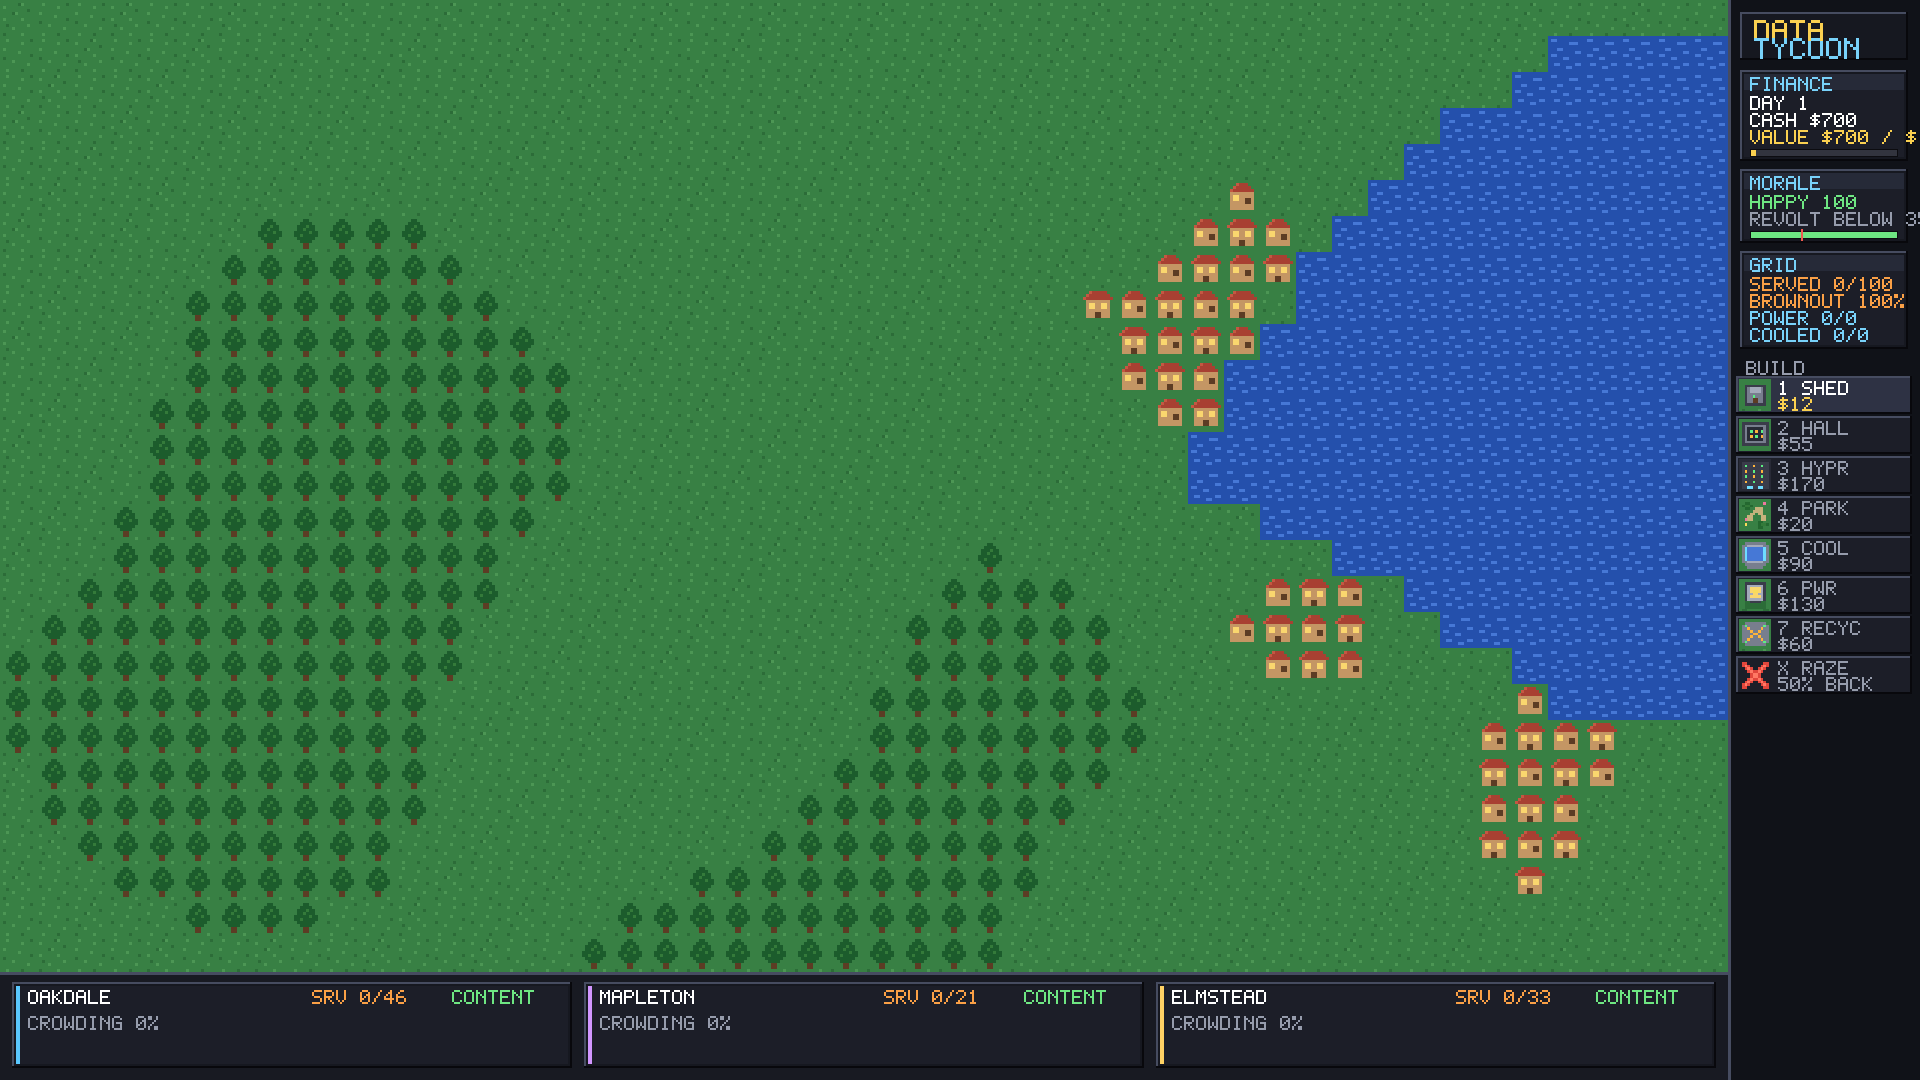
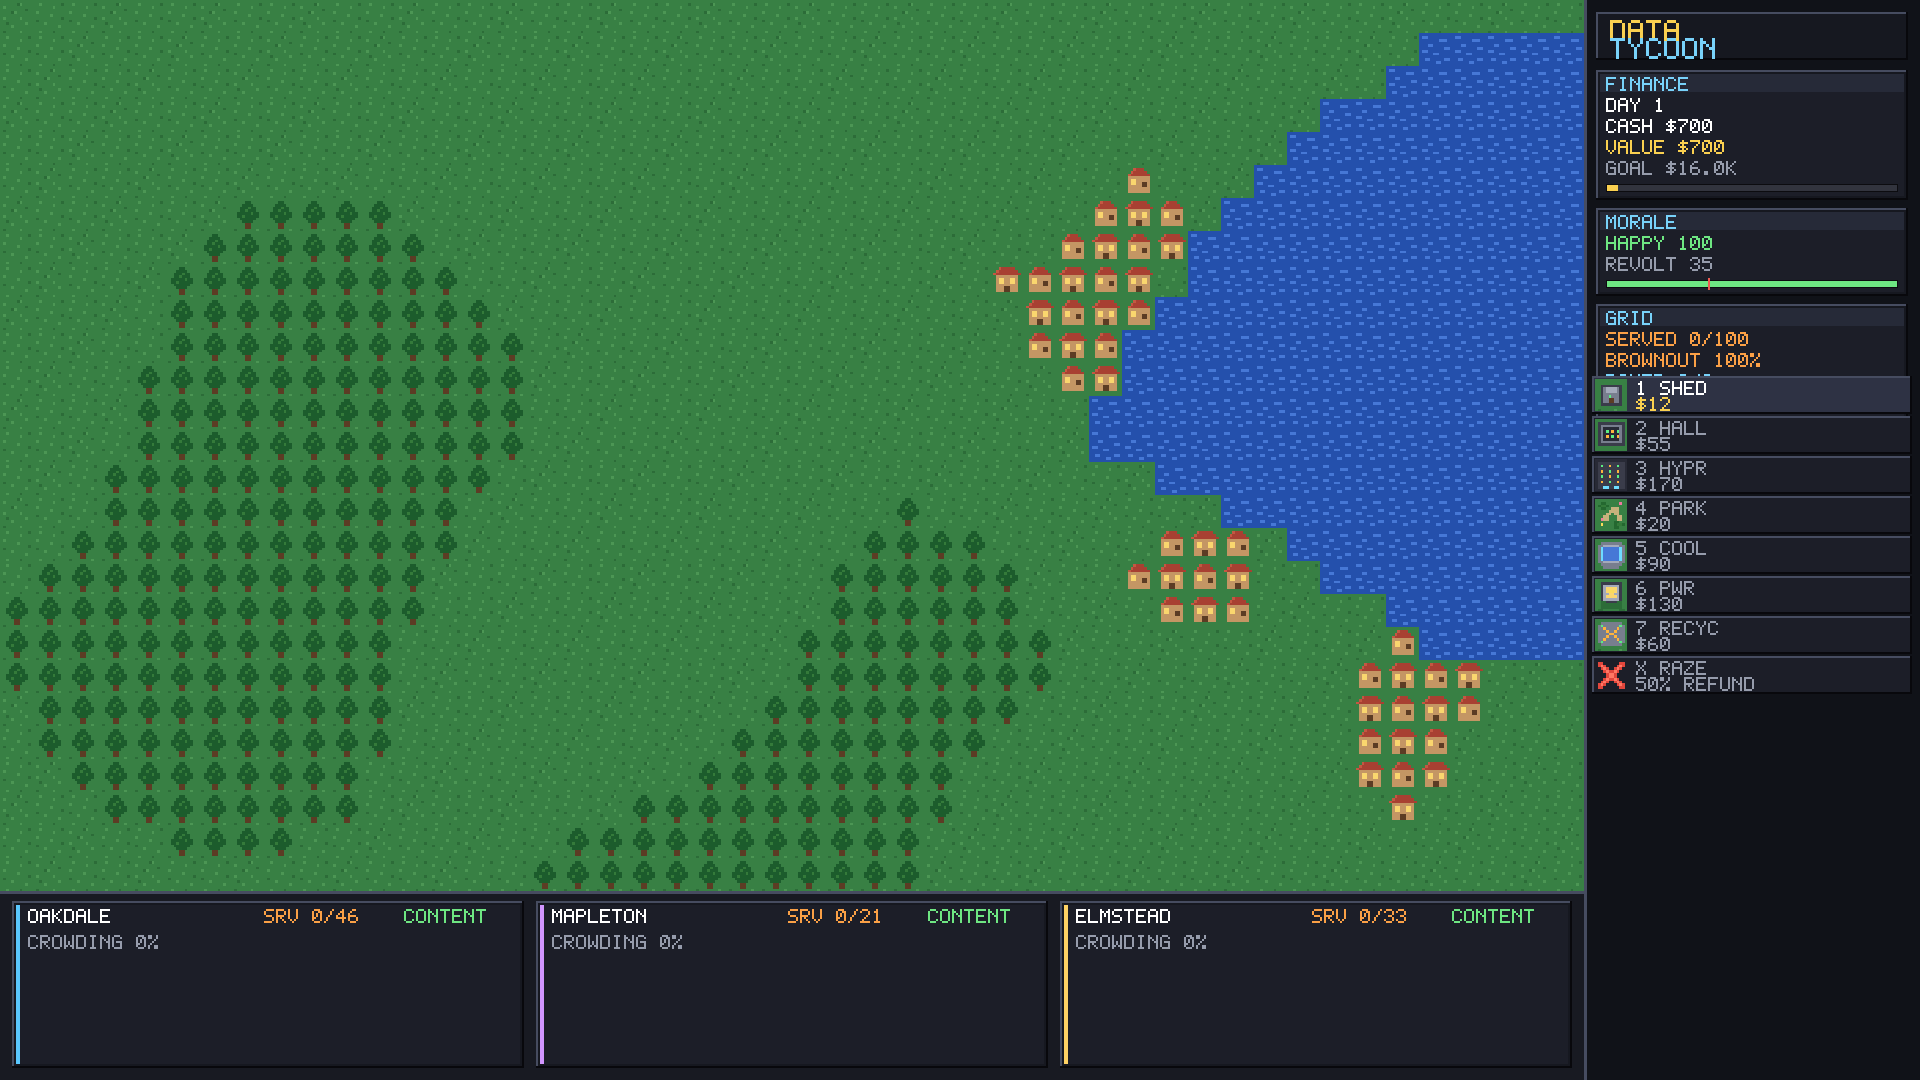
Improve small-font legibility in the HUD
- Widen the sidebar from 192px to 336px (render tiles at 33px; the 48x27
  grid is unchanged) so chunk text has real breathing room.
- Unambiguous glyphs: 0/1 now clearly differ (slashed zero, flag on 1).
- Chunk rows get 21px line height instead of 17px; chunk headers taller.
- Raze row key changed from 'X' to '8' so it sits in the 1-8 sequence
  instead of colliding with the red-X sprite; label now '50% REFUND'.
- Tool labels shifted to r.X+44 for clearance from the sprite.

Verified via the screenshot tool: sidebar text reads cleanly and the
build list is unambiguous. (Vision OCR still misreads the 5px font
occasionally, but a bit-level read confirms the glyphs render exactly.)

Validated: vanilla ladder byte-identical, 16/16 selftests, 0 warnings.

Changed region(s): [[0.0, 0.0, 1.0, 0.9778]]

diff --git a/Game1.cs b/Game1.cs
@@ -12,7 +12,7 @@ public class Game1 : Game
 {
     private const int TargetWidth = 1920;
     private const int TargetHeight = 1080;
-    private const int Ts = MapGenerator.TileSize;
+    private const int Ts = 33;
     private const int MapW = MapGenerator.GridWidth * Ts;
     private const int MapH = MapGenerator.GridHeight * Ts;
     private const int SideX = MapW;
@@ -55,7 +55,7 @@ public class Game1 : Game
         (Tool.Cooling, StructureType.CoolingTower, Sprite.Cooling, "5"),
         (Tool.Power, StructureType.PowerPlant, Sprite.Power, "6"),
         (Tool.Recycler, StructureType.Recycler, Sprite.Recycler, "7"),
-        (Tool.Raze, StructureType.None, Sprite.Raze, "X"),
+        (Tool.Raze, StructureType.None, Sprite.Raze, "8"),
     };
 
     private readonly record struct UndoStep(int x0, int y0, int x1, int y1, StructureType type, bool wasBuild);
@@ -676,8 +676,8 @@ public class Game1 : Game
             SoftBevel(c, r, selected ? new Color(46, 50, 68) : ChunkFill);
             c.BlitPattern(PixelArt.PatternFor(icon), pal, new Rectangle(r.X + 3, r.Y + 3, 32, 32), Color.White);
             string nm = Structures.Display(type);
-            SoftText(c, $"{key} {nm}", r.X + 42, r.Y + 5, selected ? Color.White : TextDim, 2);
-            SoftText(c, type != StructureType.None ? ShortMoney(Structures.Get(type).Cost) : "50% BACK", r.X + 42, r.Y + 21, selected ? TextGold : TextDim, 2);
+            SoftText(c, $"{key} {nm}", r.X + 44, r.Y + 5, selected ? Color.White : TextDim, 2);
+            SoftText(c, type != StructureType.None ? ShortMoney(Structures.Get(type).Cost) : "50% REFUND", r.X + 44, r.Y + 21, selected ? TextGold : TextDim, 2);
         }
     }
 
@@ -717,14 +717,14 @@ public class Game1 : Game
 
     private int SoftChunk(SoftCanvas c, int x, int y, string title, (string text, Color color)[] lines, float bar = -1f, Color? barColor = null, float markFrac = -1f)
     {
-        int h = 26 + lines.Length * 17 + (bar >= 0f ? 14 : 4);
+        int h = 30 + lines.Length * 21 + (bar >= 0f ? 16 : 4);
         var panel = new Rectangle(x, y, SideW - 24, h);
         SoftBevel(c, panel, new Color(22, 24, 32));
         c.Fill(new Rectangle(panel.X + 4, panel.Y + 4, panel.Width - 8, panel.Height - 8), ChunkFill);
-        c.Fill(new Rectangle(panel.X + 4, panel.Y + 4, panel.Width - 8, 16), new Color(38, 42, 56));
+        c.Fill(new Rectangle(panel.X + 4, panel.Y + 4, panel.Width - 8, 18), new Color(38, 42, 56));
         SoftText(c, title, panel.X + 10, panel.Y + 7, TextCyan, 2);
-        int ly = panel.Y + 26;
-        foreach (var (text, color) in lines) { SoftText(c, text, panel.X + 10, ly, color, 2); ly += 17; }
+        int ly = panel.Y + 28;
+        foreach (var (text, color) in lines) { SoftText(c, text, panel.X + 10, ly, color, 2); ly += 21; }
         if (bar >= 0f)
         {
             var br = new Rectangle(panel.X + 10, ly + 2, panel.Width - 20, 8);

diff --git a/PixelFont.cs b/PixelFont.cs
@@ -43,7 +43,7 @@ public class PixelFont
         ['X'] = new[] { "#...#", "#...#", ".#.#.", "..#..", ".#.#.", "#...#", "#...#" },
         ['Y'] = new[] { "#...#", "#...#", ".#.#.", "..#..", "..#..", "..#..", "..#.." },
         ['Z'] = new[] { "#####", "....#", "...#.", "..#..", ".#...", "#....", "#####" },
-        ['0'] = new[] { ".###.", "#...#", "#..##", "#.#.#", "##..#", "#...#", ".###." },
+        ['0'] = new[] { ".###.", "#..##", "#.#.#", "#.#.#", "##..#", "#...#", ".###." },
         ['1'] = new[] { "..#..", ".##..", "..#..", "..#..", "..#..", "..#..", ".###." },
         ['2'] = new[] { ".###.", "#...#", "....#", "...#.", "..#..", ".#...", "#####" },
         ['3'] = new[] { ".###.", "#...#", "....#", "..##.", "....#", "#...#", ".###." },
